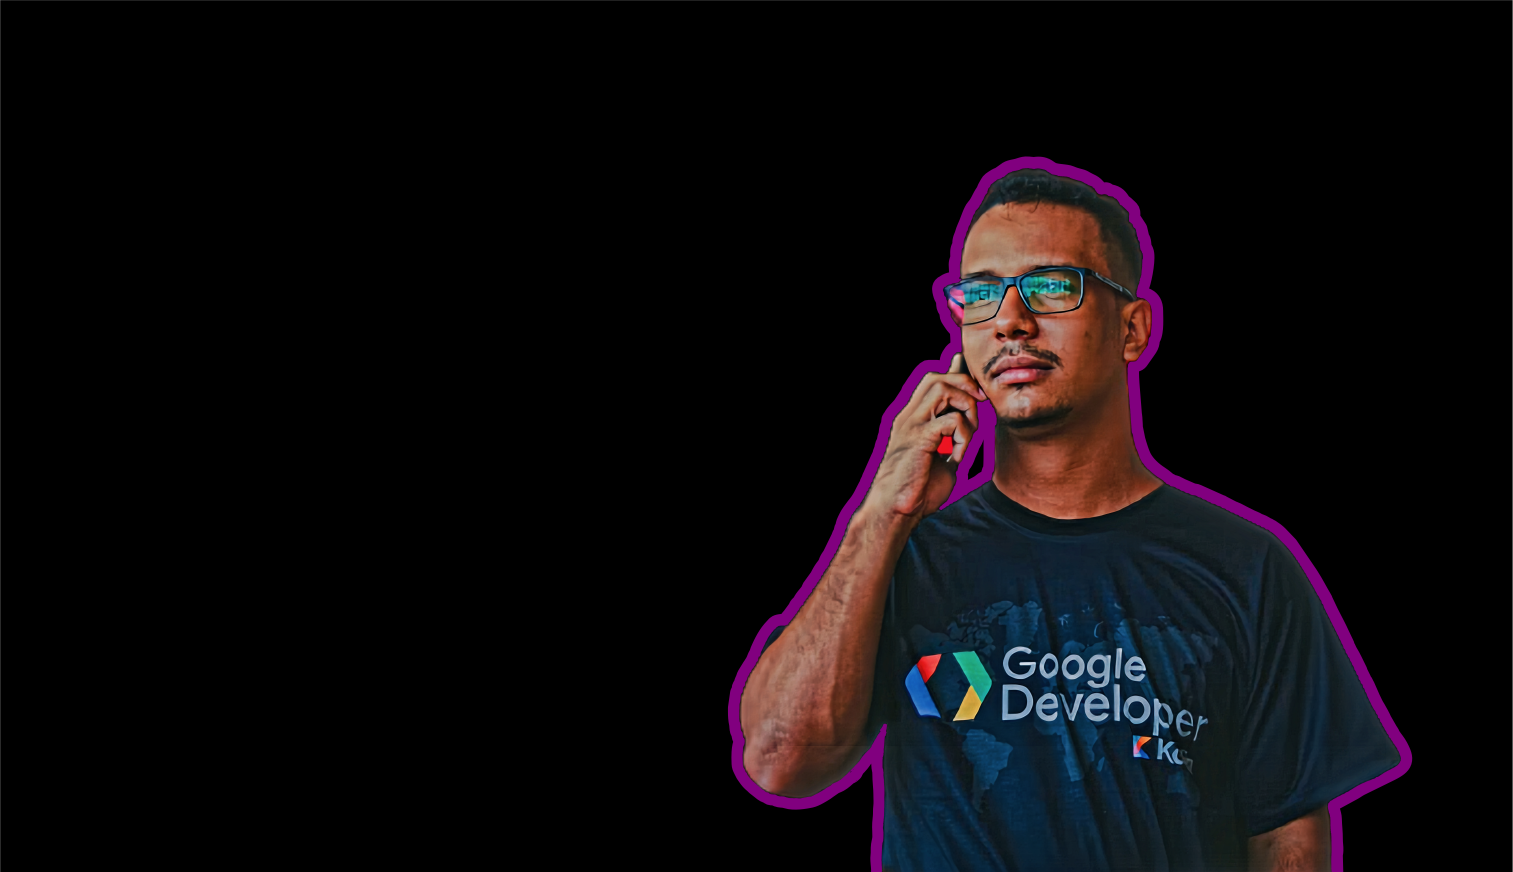
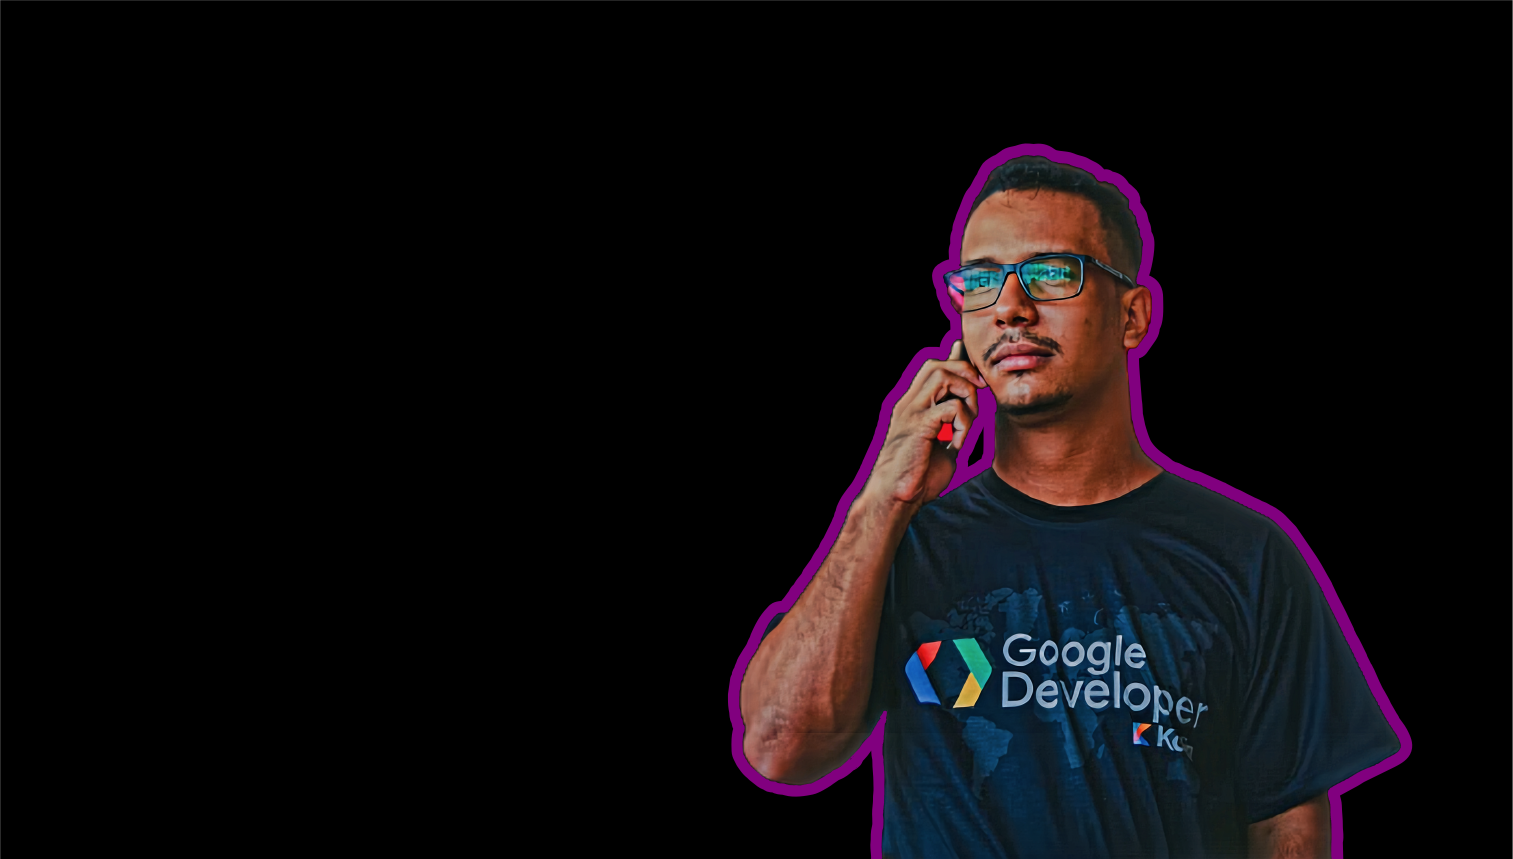
Finaliza Sessão Sobre

diff --git a/index.html b/index.html
@@ -62,8 +62,8 @@
                         <img src="assets/img1.jpeg" alt="Imagem de Jean Ramalho">              
                     </div>                 
                     <div class="column right">
-                        <div class="text">Sou Jean Ramalho e sou <span class="typing-2"></span></div>
-                        <p>Lorem ipsum dolor sit amet consectetur adipisicing elit. Veniam inventore cupiditate incidunt sunt deleniti nam dolorem, ipsam repellat error odio, quaerat cum sit qui nihil aspernatur praesentium, impedit at soluta?</p>
+                        <div class="text">Sou Jean Ramalho <br> <span class="typing-2"></span></div>
+                        <p>Apaixonado por tecnologia, sempre gostei de resolver problemas de maneiras práticas e definitivas. Ao ser apresentado a área de programação comecei uma jornada de aprendizado incrível que nunca terá fim. Acredito que devemos sempre continuar buscando crescimento e aprendizado em todas as áreas, e é justamente assim que procuro viver, desenvolvendo as Hard e Soft Skills, para obter um desenvolvimento amplo. Gosto de praticar esportes para o crescimento do lado físico e pratico a religião Adventista do Sétimo Dia para desenvolvimento do Espiritual, e manter em harmônia todas as áreas. Trabalhar em equipe me deixa animado, estou sempre ansioso para viver experiências incríveis! Para conhecer um pouco mais sobre a minha trajetória profissional, acesse meu currículo clicando no botão abaixo.</p>
                         <a href="#">Download CV</a>
                     </div>   
                 </div>

diff --git a/style/style.css b/style/style.css
@@ -97,8 +97,8 @@ html{
 
 .home {
     display: flex;
-    background: url(../assets/wpp-1.png);
-    height: 100vh;
+    background: url(../assets/wpp-1.png) no-repeat;
+    height: calc(100vh - 150px);
     color: #fff;
     min-height: 500px;
     font-family: 'Ubuntu', sans-serif;
